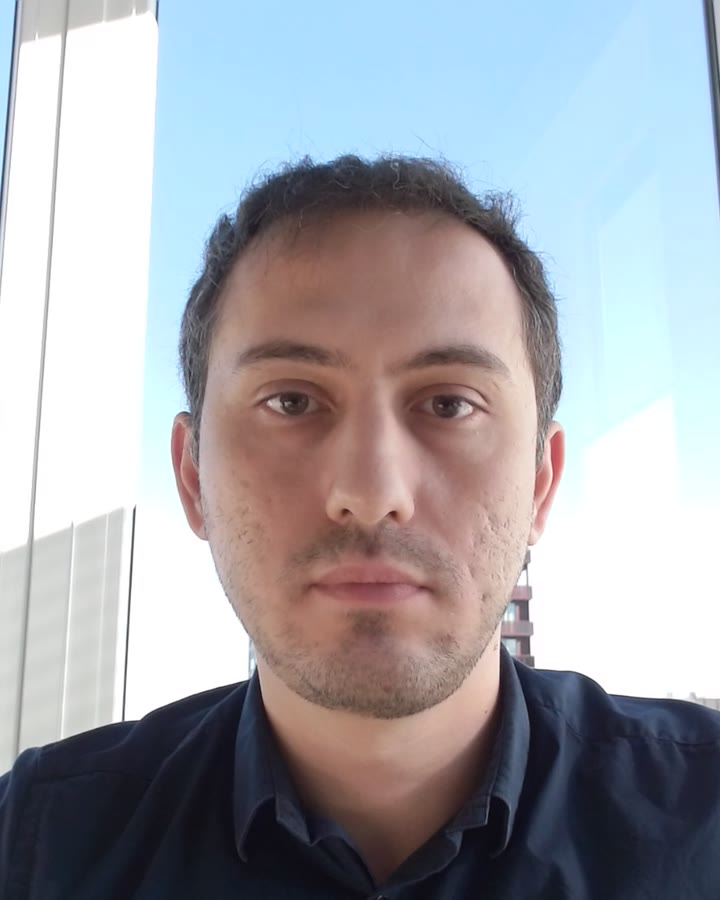
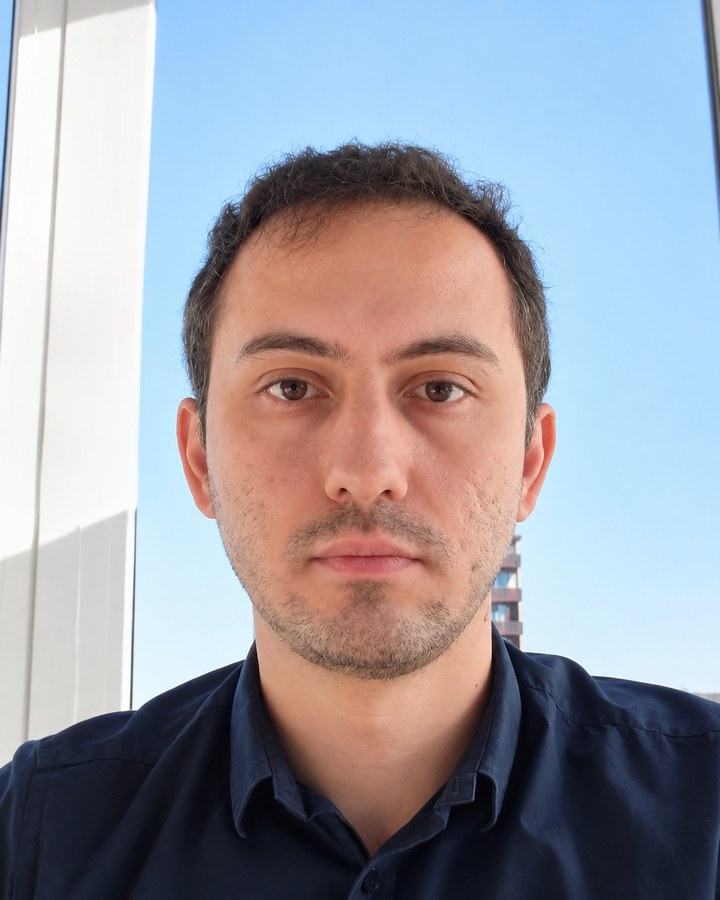
AI clone: new resting portrait
Claude-Session: https://claude.ai/code/session_015F3Q6d3i8h5FPYL6i7dLxY

diff --git a/index.html b/index.html
@@ -995,7 +995,7 @@
 // poster: path to a still picture (for example 'twin/poster.jpg'). Empty shows the initials tile.
 // video:  true lets the page play clips. Clips only arrive when the server has
 //         TWIN_VIDEO_ENABLED=1 and the Mac mini's avatar server is reachable; otherwise text only.
-var TWIN = { poster: 'twin/poster.jpg?v=3', video: true };
+var TWIN = { poster: 'twin/poster.jpg?v=4', video: true };
 (function () {
   var stage = document.getElementById('twin-stage'), log = document.getElementById('twin-log'),
       form = document.getElementById('twin-form'), input = document.getElementById('twin-input'),
